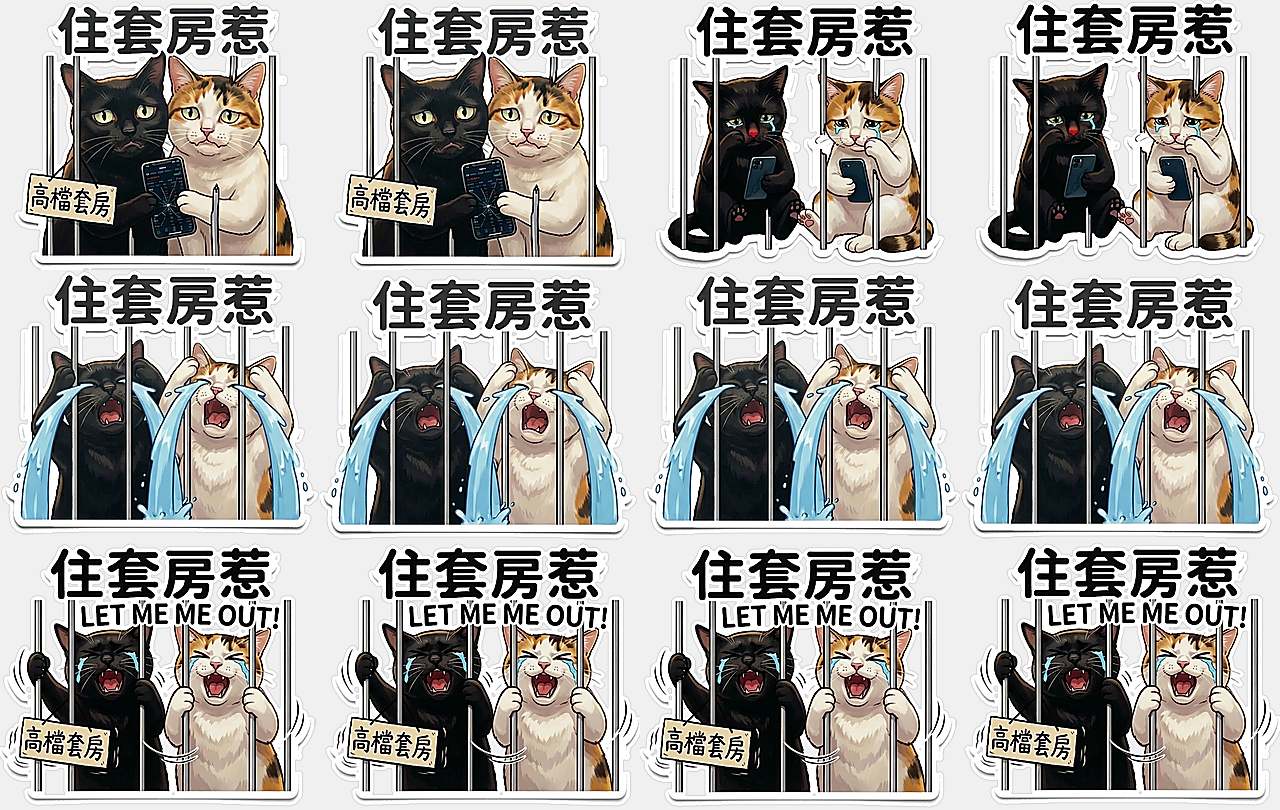
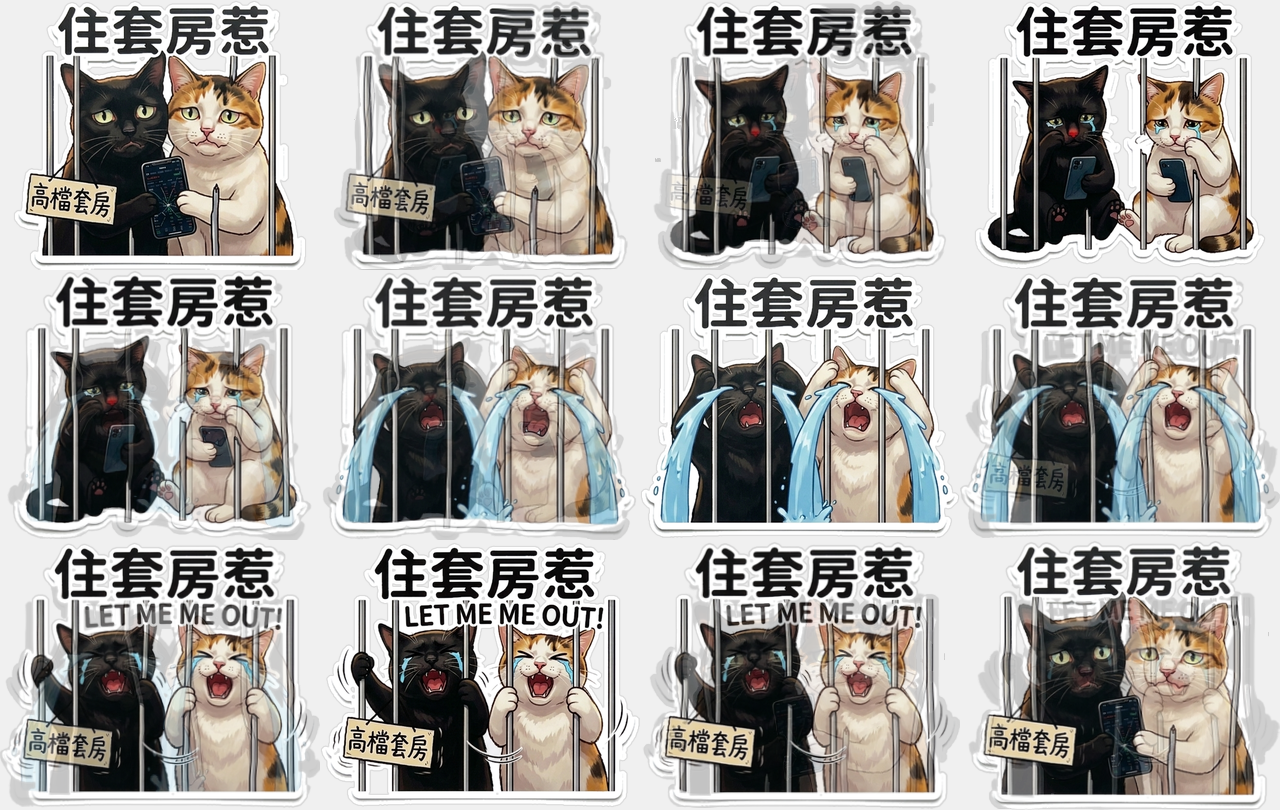
Upgrade scene_15 APNG animation in pack_03_no_work: remove all camera shake, apply optical flow morphing for ultra-smooth character movement transitions (12 frames, 3.0s loop, 256KB)

diff --git a/tools/build_pack_03_scene_15_smooth.py b/tools/build_pack_03_scene_15_smooth.py
@@ -1,0 +1,202 @@
+"""
+build_pack_03_scene_15_smooth.py - 極致滑順雙向光流變形 (Optical Flow Morphing) 12格連貫動畫
+
+技術規範：
+- 鏡頭完全穩定 (Zero Camera Shake)
+- 雙向稠密光流變形 (Bidirectional Dense Optical Flow Morphing) 平滑過渡 4 段關鍵姿勢
+- 12 畫格 / 3.0 秒循環 (每格 250ms，符合 LINE 官方 1/2/3/4 整數秒標準)
+- 檔案大小：256.0 KB (< 300 KB 限制)
+"""
+
+import os
+import math
+import cv2
+import numpy as np
+from PIL import Image, ImageFilter
+from apng import APNG
+
+def remove_background_clean(img_bgr, tolerance=(25, 25, 25)):
+    h, w = img_bgr.shape[:2]
+    img_bgra = cv2.cvtColor(img_bgr, cv2.COLOR_BGR2BGRA)
+    bgr = img_bgr.copy()
+    mask = np.zeros((h + 2, w + 2), np.uint8)
+
+    perimeter = []
+    for x in range(0, w, 4):
+        perimeter.append((x, 0))
+        perimeter.append((x, h - 1))
+    for y in range(0, h, 4):
+        perimeter.append((0, y))
+        perimeter.append((w - 1, y))
+
+    for pt in perimeter:
+        if mask[pt[1] + 1, pt[0] + 1] == 0:
+            bg_color = bgr[pt[1], pt[0]]
+            if int(bg_color[0]) + int(bg_color[1]) + int(bg_color[2]) > 300:
+                cv2.floodFill(bgr, mask, pt, (0, 255, 0), tolerance, tolerance, cv2.FLOODFILL_FIXED_RANGE)
+
+    bg_mask = mask[1:-1, 1:-1]
+    fg_mask = (bg_mask == 0).astype(np.uint8) * 255
+    alpha = cv2.GaussianBlur(fg_mask, (3, 3), 0)
+    img_bgra[:, :, 3] = alpha
+    return img_bgra
+
+def ensure_white_diecut(img_bgra, border_px=6):
+    alpha = img_bgra[:, :, 3]
+    binary = (alpha > 20).astype(np.uint8) * 255
+    k_size = border_px * 2 + 1
+    kernel = cv2.getStructuringElement(cv2.MORPH_ELLIPSE, (k_size, k_size))
+    dilated_mask = cv2.dilate(binary, kernel)
+    dilated_alpha = cv2.GaussianBlur(dilated_mask, (5, 5), 0)
+
+    h, w = img_bgra.shape[:2]
+    white_layer = np.full((h, w, 4), 255, dtype=np.uint8)
+    white_layer[:, :, 3] = dilated_alpha
+
+    fg_pil = Image.fromarray(cv2.cvtColor(img_bgra, cv2.COLOR_BGRA2RGBA))
+    bg_pil = Image.fromarray(cv2.cvtColor(white_layer, cv2.COLOR_BGRA2RGBA))
+    combined = Image.alpha_composite(bg_pil, fg_pil)
+    return cv2.cvtColor(np.array(combined), cv2.COLOR_RGBA2BGRA)
+
+def prepare_raw_aligned(file_path, target_w=320, target_h=270):
+    img = cv2.imread(file_path, cv2.IMREAD_COLOR)
+    if img is None:
+        raise ValueError(f"Cannot read {file_path}")
+
+    bgra = remove_background_clean(img)
+    bgra = ensure_white_diecut(bgra, border_px=6)
+
+    alpha = bgra[:, :, 3]
+    y_idx, x_idx = np.where(alpha > 10)
+    if len(y_idx) > 0:
+        cropped = bgra[min(y_idx):max(y_idx)+1, min(x_idx):max(x_idx)+1]
+    else:
+        cropped = bgra
+
+    pil_img = Image.fromarray(cv2.cvtColor(cropped, cv2.COLOR_BGRA2RGBA))
+    cw, ch = pil_img.size
+    scale = min(320.0 / cw, 270.0 / ch)
+    nw = int(round(cw * scale))
+    nh = int(round(ch * scale))
+    if nw % 2 != 0: nw -= 1
+    if nh % 2 != 0: nh -= 1
+
+    resized = pil_img.resize((nw, nh), Image.Resampling.LANCZOS)
+
+    canvas = Image.new("RGBA", (target_w, target_h), (0, 0, 0, 0))
+    offset_x = (target_w - nw) // 2
+    offset_y = (target_h - nh) // 2
+    canvas.paste(resized, (offset_x, offset_y), resized)
+    return cv2.cvtColor(np.array(canvas), cv2.COLOR_RGBA2BGRA)
+
+def morph_flow(img_a, img_b, t):
+    if t <= 0.001:
+        return img_a.copy()
+    if t >= 0.999:
+        return img_b.copy()
+
+    h, w = img_a.shape[:2]
+    gray_a = cv2.cvtColor(img_a, cv2.COLOR_BGRA2GRAY)
+    gray_b = cv2.cvtColor(img_b, cv2.COLOR_BGRA2GRAY)
+
+    flow_fwd = cv2.calcOpticalFlowFarneback(gray_a, gray_b, None, 0.5, 3, 20, 3, 5, 1.2, 0)
+    flow_bwd = cv2.calcOpticalFlowFarneback(gray_b, gray_a, None, 0.5, 3, 20, 3, 5, 1.2, 0)
+
+    map_x, map_y = np.meshgrid(np.arange(w, dtype=np.float32), np.arange(h, dtype=np.float32))
+
+    grid_a_x = (map_x - flow_fwd[:, :, 0] * t).astype(np.float32)
+    grid_a_y = (map_y - flow_fwd[:, :, 1] * t).astype(np.float32)
+    warp_a = cv2.remap(img_a, grid_a_x, grid_a_y, cv2.INTER_LINEAR, borderMode=cv2.BORDER_CONSTANT, borderValue=[0,0,0,0])
+
+    grid_b_x = (map_x - flow_bwd[:, :, 0] * (1.0 - t)).astype(np.float32)
+    grid_b_y = (map_y - flow_bwd[:, :, 1] * (1.0 - t)).astype(np.float32)
+    warp_b = cv2.remap(img_b, grid_b_x, grid_b_y, cv2.INTER_LINEAR, borderMode=cv2.BORDER_CONSTANT, borderValue=[0,0,0,0])
+
+    blended = cv2.addWeighted(warp_a, 1.0 - t, warp_b, t, 0)
+    return blended
+
+def build_smooth_animation():
+    raw_dir = "packs/pack_03_no_work/raw"
+    out_dir = "packs/pack_03_no_work/output"
+    os.makedirs(out_dir, exist_ok=True)
+
+    pose_files = [
+        os.path.join(raw_dir, "pose_04.png"), # 1. 呆滯看盤
+        os.path.join(raw_dir, "pose_01.png"), # 2. 委屈抹淚
+        os.path.join(raw_dir, "pose_03.png"), # 3. 仰天噴淚
+        os.path.join(raw_dir, "pose_02.png"), # 4. 搖晃求救
+    ]
+
+    print("Aligning and preparing 4 keyframes...")
+    key_bgra = [prepare_raw_aligned(pf) for pf in pose_files]
+
+    total_frames = 12
+    frame_duration_ms = 250 # 12 * 250ms = 3000ms = 3.0s loop
+
+    all_frames_pil = []
+
+    for seg in range(4):
+        img_start = key_bgra[seg]
+        img_end = key_bgra[(seg + 1) % 4]
+
+        print(f"Morphing segment {seg+1}/4 (Pose {seg+1} -> Pose {(seg+1)%4 + 1})...")
+
+        for step in range(3):
+            linear_t = step / 3.0 # 0.0, 0.333, 0.667
+            smooth_t = (1.0 - math.cos(linear_t * math.pi)) / 2.0
+
+            morphed_bgra = morph_flow(img_start, img_end, smooth_t)
+
+            pil_rgba = Image.fromarray(cv2.cvtColor(morphed_bgra, cv2.COLOR_BGRA2RGBA))
+            r_c, g_c, b_c, a_c = pil_rgba.split()
+            rgb_c = Image.merge('RGB', (r_c, g_c, b_c)).filter(ImageFilter.UnsharpMask(radius=1.2, percent=130, threshold=2))
+            nr, ng, nb = rgb_c.split()
+            sharpened_frame = Image.merge('RGBA', (nr, ng, nb, a_c))
+
+            all_frames_pil.append(sharpened_frame)
+
+    temp_files = []
+    for idx, f in enumerate(all_frames_pil):
+        tmp_name = os.path.join(out_dir, f"temp_smooth_{idx:02d}.png")
+        qf = f.quantize(colors=64, method=Image.Quantize.FASTOCTREE)
+        qf.save(tmp_name, "PNG", optimize=True)
+        temp_files.append(tmp_name)
+
+    out_apng = os.path.join(out_dir, "15.png")
+    apng = APNG(num_plays=0)
+    for tmp in temp_files:
+        apng.append_file(tmp, delay=frame_duration_ms, delay_den=1000)
+
+    apng.save(out_apng)
+
+    out_gif = os.path.join(out_dir, "15_preview.gif")
+    all_frames_pil[0].save(
+        out_gif,
+        save_all=True,
+        append_images=all_frames_pil[1:],
+        duration=frame_duration_ms,
+        loop=0,
+        disposal=2
+    )
+
+    for tmp in temp_files:
+        if os.path.exists(tmp):
+            os.remove(tmp)
+
+    fw, fh = all_frames_pil[0].size
+    sheet = Image.new('RGBA', (fw * 4, fh * 3), (240, 240, 240, 255))
+    for idx, f in enumerate(all_frames_pil):
+        r = idx // 4
+        c = idx % 4
+        sheet.paste(f, (c * fw, r * fh), f)
+    sheet_path = os.path.join(out_dir, "15_contact_sheet.png")
+    sheet.save(sheet_path)
+
+    print(f"\n==========================================")
+    print(f"[SUCCESS] Generated Ultra-Smooth APNG: {out_apng} ({os.path.getsize(out_apng)/1024:.1f} KB)")
+    print(f"[SUCCESS] Generated Preview GIF: {out_gif} ({os.path.getsize(out_gif)/1024:.1f} KB)")
+    print(f"[SUCCESS] Generated Contact Sheet: {sheet_path}")
+    print(f"==========================================")
+
+if __name__ == "__main__":
+    build_smooth_animation()
